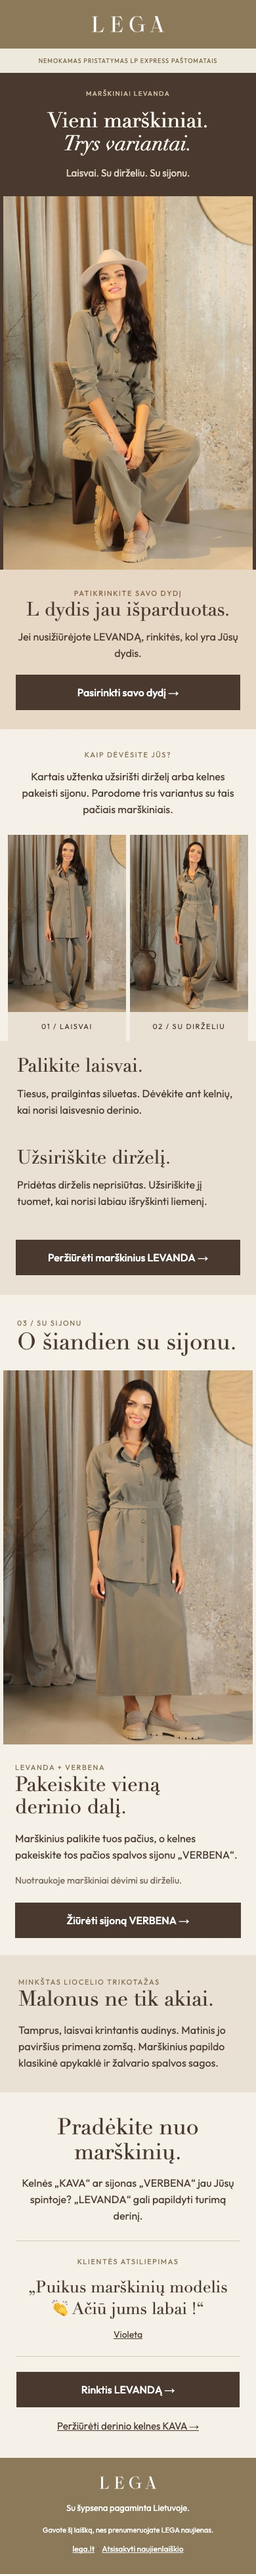
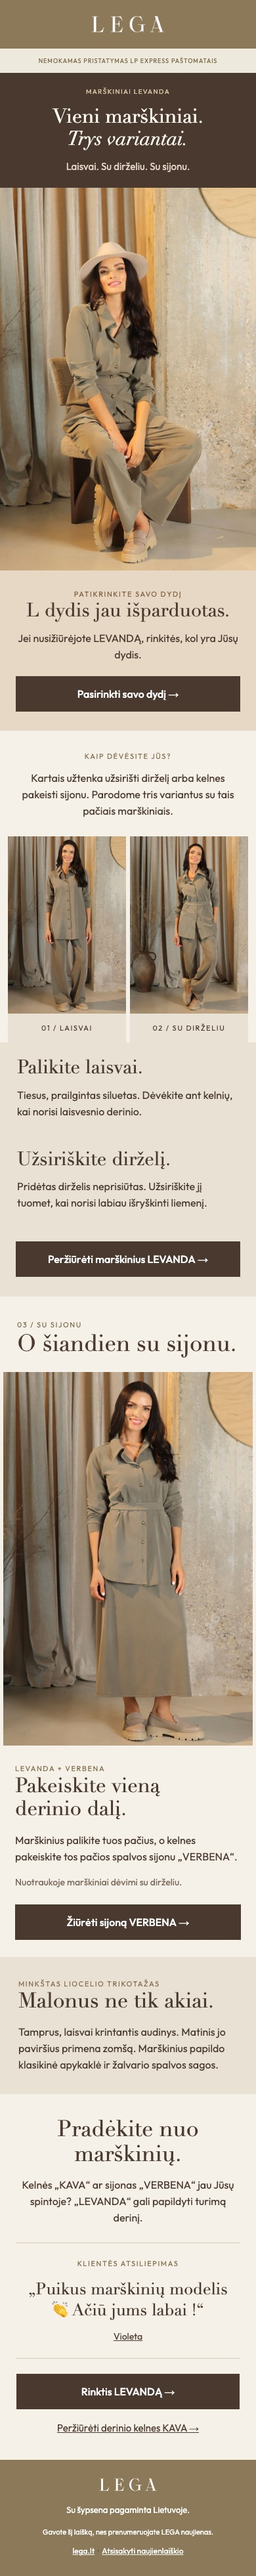
Fix c44 mobile hero fallback and refresh eleven QA previews

diff --git a/campaigns/c44-levanda-three-ways/newsletter.html b/campaigns/c44-levanda-three-ways/newsletter.html
@@ -1,1 +1,1 @@
-<!doctype html><html lang="lt"><head><meta charset="utf-8"><meta name="viewport" content="width=device-width,initial-scale=1"><meta name="x-apple-disable-message-reformatting"><title>Vieni marškiniai, keli būdai dėvėti | LEGA</title><link href="https://fonts.googleapis.com/css2?family=Outfit:wght@400;500;600&amp;display=swap" rel="stylesheet"><style>html,body{margin:0!important;padding:0!important;-webkit-text-size-adjust:100%}table,td{mso-table-lspace:0;mso-table-rspace:0}a[x-apple-data-detectors]{color:inherit!important}@media(max-width:599px){.column{max-width:100%!important}.column>a{max-width:380px;margin:0 auto}.hero-copy{max-width:100%!important;text-align:center!important}.hero-copy h1{font-size:32px!important;margin:15px 0!important}.hero-copy td{padding:23px 18px!important}.hero-photo{max-width:380px!important}}</style></head><body style="margin:0;padding:0;background:#e4ded5;-webkit-text-size-adjust:100%;"><div style="display:none;max-height:0;overflow:hidden;mso-hide:all;">L dydis jau išparduotas. Atraskite tris LEVANDOS derinius ir pasirinkite savo dydį.</div><table role="presentation" width="100%" cellspacing="0" cellpadding="0" border="0" style="width:100%;border-collapse:collapse;"><tr><td style="font-family:Outfit, 'Helvetica Neue', Arial, sans-serif;color:#49392f;"><!--[if mso]><table width="600" align="center" role="presentation"><tr><td><![endif]--><table role="presentation" width="100%" cellspacing="0" cellpadding="0" border="0" style="width:100%;border-collapse:collapse;max-width:600px;table-layout:fixed;background:#f6f1e8;margin:0 auto;"><tr><td style="font-family:Outfit, 'Helvetica Neue', Arial, sans-serif;color:#49392f;padding:24px;background:#8c7959;"><a href="https://lega.lt/"><img src="https://raw.githubusercontent.com/elaiskai/lega-email-assets/main/campaigns/c44-levanda-three-ways/assets/lega-logo-white.png" width="112" alt="LEGA" style="display:block;width:112px;height:auto;border:0;margin:0 auto;"></a></td></tr><tr><td style="font-family:Outfit, 'Helvetica Neue', Arial, sans-serif;color:#49392f;padding:11px 14px;text-align:center;background:#edeadd;"><p style="margin:0;font-family:Outfit, 'Helvetica Neue', Arial, sans-serif;font-size:16px;line-height:25px;font-size:11px;line-height:18px;letter-spacing:1.6px;text-transform:uppercase;font-size:9px;line-height:15px;letter-spacing:1px;color:#786344;">Nemokamas pristatymas LP Express paštomatais</p></td></tr><tr><td style="font-family:Outfit, 'Helvetica Neue', Arial, sans-serif;color:#49392f;font-size:0;line-height:0;text-align:center;background:#49392f;"><!--[if mso]><table role="presentation" width="600"><tr><td width="240" valign="middle"><![endif]--><div class="hero-copy" style="display:inline-block;width:100%;max-width:240px;vertical-align:middle;text-align:left;"><table role="presentation" width="100%" cellspacing="0" cellpadding="0" border="0" style="width:100%;border-collapse:collapse;"><tr><td style="font-family:Outfit, 'Helvetica Neue', Arial, sans-serif;color:#49392f;padding:32px 22px;color:#fffaf0;"><p style="margin:0;font-family:Outfit, 'Helvetica Neue', Arial, sans-serif;font-size:16px;line-height:25px;font-size:11px;line-height:18px;letter-spacing:1.6px;text-transform:uppercase;color:#d5c2a5;letter-spacing:1.4px;font-size:10px;">MARŠKINIAI LEVANDA</p><h1 style="margin:24px 0;font-family:Didot, 'Bodoni MT', Georgia, serif;font-size:37px;line-height:1.08;font-weight:400;color:#fffaf0;">Vieni marškiniai.<br><i>Trys variantai.</i></h1><p style="margin:0;font-family:Outfit, 'Helvetica Neue', Arial, sans-serif;font-size:16px;line-height:25px;color:#e2d6c6;font-size:15px;line-height:25px;">Laisvai. Su dirželiu. Su sijonu.</p></td></tr></table></div><!--[if mso]></td><td width="360" valign="middle"><![endif]--><div class="hero-photo" style="display:inline-block;width:100%;max-width:360px;vertical-align:middle;text-align:left;"><a href="https://lega.lt/products/marskiniai-levanda-alyvuogiu-chaki?utm_source=newsletter&amp;utm_medium=email&amp;utm_campaign=levanda_20261006&amp;utm_content=hero" style="display:block;"><img src="https://raw.githubusercontent.com/elaiskai/lega-email-assets/main/campaigns/c44-levanda-three-ways/assets/hero-seated.jpg" width="360" alt="LEVANDA marškiniai ir KAVA kelnės, modelis sėdi su skrybėle" style="display:block;width:100%;height:auto;border:0;"></a></div><!--[if mso]></td></tr></table><![endif]--></td></tr><tr><td style="font-family:Outfit, 'Helvetica Neue', Arial, sans-serif;color:#49392f;padding:27px 24px 29px;background:#e7d7c5;text-align:center;"><p style="margin:0;font-family:Outfit, 'Helvetica Neue', Arial, sans-serif;font-size:16px;line-height:25px;font-size:11px;line-height:18px;letter-spacing:1.6px;text-transform:uppercase;color:#866347;">PATIKRINKITE SAVO DYDĮ</p><h2 style="margin:0;font-family:Didot, 'Bodoni MT', Georgia, serif;font-size:29px;line-height:1.12;font-weight:400;">L dydis jau išparduotas.</h2><p style="margin:0;font-family:Outfit, 'Helvetica Neue', Arial, sans-serif;font-size:16px;line-height:25px;margin-top:13px;">Jei nusižiūrėjote LEVANDĄ, rinkitės, kol yra Jūsų dydis.</p><div style="padding-top:20px;"><table role="presentation" width="100%" cellspacing="0" cellpadding="0" border="0" style="width:100%;border-collapse:collapse;max-width:380px;margin:0 auto;"><tr><td style="font-family:Outfit, 'Helvetica Neue', Arial, sans-serif;color:#49392f;background:#49392f;"><a class="cta" href="https://lega.lt/products/marskiniai-levanda-alyvuogiu-chaki?utm_source=newsletter&amp;utm_medium=email&amp;utm_campaign=levanda_20261006&amp;utm_content=availability_cta" style="display:block;padding:16px 12px;color:#fff;background:#49392f;font-family:Outfit, 'Helvetica Neue', Arial, sans-serif;font-size:16px;line-height:22px;text-align:center;text-decoration:none;font-weight:500;">Pasirinkti savo dydį&nbsp;→</a></td></tr></table></div></td></tr><tr><td style="font-family:Outfit, 'Helvetica Neue', Arial, sans-serif;color:#49392f;padding:30px 28px 26px;text-align:center;"><p style="margin:0;font-family:Outfit, 'Helvetica Neue', Arial, sans-serif;font-size:16px;line-height:25px;font-size:11px;line-height:18px;letter-spacing:1.6px;text-transform:uppercase;color:#867153;">KAIP DĖVĖSITE JŪS?</p><p style="margin:0;font-family:Outfit, 'Helvetica Neue', Arial, sans-serif;font-size:16px;line-height:25px;margin-top:12px;">Kartais užtenka užsirišti dirželį arba kelnes pakeisti sijonu. Parodome tris variantus su tais pačiais marškiniais.</p></td></tr><tr><td style="font-family:Outfit, 'Helvetica Neue', Arial, sans-serif;color:#49392f;padding:0 12px;"><table role="presentation" width="100%" cellspacing="0" cellpadding="0" border="0" style="width:100%;border-collapse:collapse;table-layout:fixed;"><tr><td width="50%" valign="top" style="width:50%;padding-right:3px;"><a href="https://lega.lt/products/marskiniai-levanda-alyvuogiu-chaki?utm_source=newsletter&amp;utm_medium=email&amp;utm_campaign=levanda_20261006&amp;utm_content=hero_loose" style="display:block;text-decoration:none;"><img src="https://raw.githubusercontent.com/elaiskai/lega-email-assets/main/campaigns/c44-levanda-three-ways/assets/loose.jpg" width="300" alt="LEVANDA marškiniai dėvimi laisvai su KAVA kelnėmis" style="display:block;width:100%;height:auto;border:0;"></a><table role="presentation" width="100%" cellspacing="0" cellpadding="0" border="0" style="width:100%;border-collapse:collapse;"><tr><td style="font-family:Outfit, 'Helvetica Neue', Arial, sans-serif;color:#49392f;padding:13px 8px;background:#e9e1d4;text-align:center;"><p style="margin:0;font-family:Outfit, 'Helvetica Neue', Arial, sans-serif;font-size:16px;line-height:25px;font-size:11px;line-height:18px;letter-spacing:1.6px;text-transform:uppercase;">01 / LAISVAI</p></td></tr></table></td><td width="50%" valign="top" style="width:50%;padding-left:3px;"><a href="https://lega.lt/products/marskiniai-levanda-alyvuogiu-chaki?utm_source=newsletter&amp;utm_medium=email&amp;utm_campaign=levanda_20261006&amp;utm_content=hero_belt" style="display:block;text-decoration:none;"><img src="https://raw.githubusercontent.com/elaiskai/lega-email-assets/main/campaigns/c44-levanda-three-ways/assets/belt.jpg" width="300" alt="LEVANDA marškiniai su dirželiu ir KAVA kelnėmis" style="display:block;width:100%;height:auto;border:0;"></a><table role="presentation" width="100%" cellspacing="0" cellpadding="0" border="0" style="width:100%;border-collapse:collapse;"><tr><td style="font-family:Outfit, 'Helvetica Neue', Arial, sans-serif;color:#49392f;padding:13px 8px;background:#e9e1d4;text-align:center;"><p style="margin:0;font-family:Outfit, 'Helvetica Neue', Arial, sans-serif;font-size:16px;line-height:25px;font-size:11px;line-height:18px;letter-spacing:1.6px;text-transform:uppercase;">02 / SU DIRŽELIU</p></td></tr></table></td></tr></table></td></tr><tr><td style="font-family:Outfit, 'Helvetica Neue', Arial, sans-serif;color:#49392f;font-size:0;line-height:0;text-align:center;background:#e9e1d4;"><!--[if mso]><table role="presentation" width="600"><tr><td width="300" valign="top"><![endif]--><div class="column" style="display:inline-block;vertical-align:top;width:100%;max-width:300px;text-align:left;"><table role="presentation" width="100%" cellspacing="0" cellpadding="0" border="0" style="width:100%;border-collapse:collapse;"><tr><td style="font-family:Outfit, 'Helvetica Neue', Arial, sans-serif;color:#49392f;padding:22px 26px;"><h2 style="margin:0;font-family:Didot, 'Bodoni MT', Georgia, serif;font-size:29px;line-height:1.12;font-weight:400;">Palikite laisvai.</h2><p style="margin:0;font-family:Outfit, 'Helvetica Neue', Arial, sans-serif;font-size:16px;line-height:25px;margin-top:13px;">Tiesus, prailgintas siluetas. Dėvėkite ant kelnių, kai norisi laisvesnio derinio.</p></td></tr></table></div><!--[if mso]></td><td width="300" valign="top"><![endif]--><div class="column" style="display:inline-block;vertical-align:top;width:100%;max-width:300px;text-align:left;"><table role="presentation" width="100%" cellspacing="0" cellpadding="0" border="0" style="width:100%;border-collapse:collapse;"><tr><td style="font-family:Outfit, 'Helvetica Neue', Arial, sans-serif;color:#49392f;padding:22px 26px;"><h2 style="margin:0;font-family:Didot, 'Bodoni MT', Georgia, serif;font-size:29px;line-height:1.12;font-weight:400;">Užsiriškite dirželį.</h2><p style="margin:0;font-family:Outfit, 'Helvetica Neue', Arial, sans-serif;font-size:16px;line-height:25px;margin-top:13px;">Pridėtas dirželis neprisiūtas. Užsiriškite jį tuomet, kai norisi labiau išryškinti liemenį.</p></td></tr></table></div><!--[if mso]></td></tr></table><![endif]--></td></tr><tr><td style="font-family:Outfit, 'Helvetica Neue', Arial, sans-serif;color:#49392f;padding:24px 24px 30px;background:#e9e1d4;"><table role="presentation" width="100%" cellspacing="0" cellpadding="0" border="0" style="width:100%;border-collapse:collapse;max-width:380px;margin:0 auto;"><tr><td style="font-family:Outfit, 'Helvetica Neue', Arial, sans-serif;color:#49392f;background:#49392f;"><a class="cta" href="https://lega.lt/products/marskiniai-levanda-alyvuogiu-chaki?utm_source=newsletter&amp;utm_medium=email&amp;utm_campaign=levanda_20261006&amp;utm_content=primary_cta" style="display:block;padding:16px 12px;color:#fff;background:#49392f;font-family:Outfit, 'Helvetica Neue', Arial, sans-serif;font-size:16px;line-height:22px;text-align:center;text-decoration:none;font-weight:500;">Peržiūrėti marškinius LEVANDA&nbsp;→</a></td></tr></table></td></tr><tr><td style="font-family:Outfit, 'Helvetica Neue', Arial, sans-serif;color:#49392f;padding:34px 26px 24px;"><p style="margin:0;font-family:Outfit, 'Helvetica Neue', Arial, sans-serif;font-size:16px;line-height:25px;font-size:11px;line-height:18px;letter-spacing:1.6px;text-transform:uppercase;color:#867153;">03 / SU SIJONU</p><h2 style="margin:0;font-family:Didot, 'Bodoni MT', Georgia, serif;font-size:35px;line-height:1.12;font-weight:400;">O šiandien su sijonu.</h2></td></tr><tr><td style="font-family:Outfit, 'Helvetica Neue', Arial, sans-serif;color:#49392f;font-size:0;line-height:0;text-align:center;background:#f6f1e8;"><!--[if mso]><table role="presentation" width="600"><tr><td width="300" valign="middle"><![endif]--><div class="column" style="display:inline-block;vertical-align:middle;width:100%;max-width:300px;text-align:left;"><a href="https://lega.lt/products/sijonas-verbena-alyvuogiu-chaki?utm_source=newsletter&amp;utm_medium=email&amp;utm_campaign=levanda_20261006&amp;utm_content=skirt_look" style="display:block;text-decoration:none;"><img src="https://raw.githubusercontent.com/elaiskai/lega-email-assets/main/campaigns/c44-levanda-three-ways/assets/skirt.jpg" width="300" alt="LEVANDA marškiniai su alyvuogių chaki sijonu VERBENA" style="display:block;width:100%;height:auto;border:0;"></a></div><!--[if mso]></td><td width="300" valign="middle"><![endif]--><div class="column" style="display:inline-block;vertical-align:middle;width:100%;max-width:300px;text-align:left;"><table role="presentation" width="100%" cellspacing="0" cellpadding="0" border="0" style="width:100%;border-collapse:collapse;"><tr><td style="font-family:Outfit, 'Helvetica Neue', Arial, sans-serif;color:#49392f;padding:26px 23px;"><p style="margin:0;font-family:Outfit, 'Helvetica Neue', Arial, sans-serif;font-size:16px;line-height:25px;font-size:11px;line-height:18px;letter-spacing:1.6px;text-transform:uppercase;color:#867153;">LEVANDA + VERBENA</p><h2 style="margin:0;font-family:Didot, 'Bodoni MT', Georgia, serif;font-size:31px;line-height:1.12;font-weight:400;">Pakeiskite vieną<br>derinio dalį.</h2><p style="margin:0;font-family:Outfit, 'Helvetica Neue', Arial, sans-serif;font-size:16px;line-height:25px;margin-top:18px;">Marškinius palikite tuos pačius, o kelnes pakeiskite tos pačios spalvos sijonu „VERBENA“.</p><p style="margin:0;font-family:Outfit, 'Helvetica Neue', Arial, sans-serif;font-size:16px;line-height:25px;margin-top:15px;font-size:14px;line-height:22px;color:#796a5c;">Nuotraukoje marškiniai dėvimi su dirželiu.</p><div style="padding-top:23px;"><table role="presentation" width="100%" cellspacing="0" cellpadding="0" border="0" style="width:100%;border-collapse:collapse;max-width:380px;margin:0 auto;"><tr><td style="font-family:Outfit, 'Helvetica Neue', Arial, sans-serif;color:#49392f;background:#49392f;"><a class="cta" href="https://lega.lt/products/sijonas-verbena-alyvuogiu-chaki?utm_source=newsletter&amp;utm_medium=email&amp;utm_campaign=levanda_20261006&amp;utm_content=skirt_cta" style="display:block;padding:16px 12px;color:#fff;background:#49392f;font-family:Outfit, 'Helvetica Neue', Arial, sans-serif;font-size:16px;line-height:22px;text-align:center;text-decoration:none;font-weight:500;">Žiūrėti sijoną VERBENA&nbsp;→</a></td></tr></table></div></td></tr></table></div><!--[if mso]></td></tr></table><![endif]--></td></tr><tr><td style="font-family:Outfit, 'Helvetica Neue', Arial, sans-serif;color:#49392f;padding:32px 28px;background:#e9e1d4;"><p style="margin:0;font-family:Outfit, 'Helvetica Neue', Arial, sans-serif;font-size:16px;line-height:25px;font-size:11px;line-height:18px;letter-spacing:1.6px;text-transform:uppercase;color:#867153;">MINKŠTAS LIOCELIO TRIKOTAŽAS</p><h2 style="margin:0;font-family:Didot, 'Bodoni MT', Georgia, serif;font-size:32px;line-height:1.12;font-weight:400;">Malonus ne tik akiai.</h2><p style="margin:0;font-family:Outfit, 'Helvetica Neue', Arial, sans-serif;font-size:16px;line-height:25px;margin-top:16px;">Tamprus, laisvai krintantis audinys. Matinis jo paviršius primena zomšą. Marškinius papildo klasikinė apykaklė ir žalvario spalvos sagos.</p></td></tr><tr><td style="font-family:Outfit, 'Helvetica Neue', Arial, sans-serif;color:#49392f;padding:34px 25px 32px;text-align:center;"><h2 style="margin:0;font-family:Didot, 'Bodoni MT', Georgia, serif;font-size:34px;line-height:1.12;font-weight:400;">Pradėkite nuo marškinių.</h2><p style="margin:0;font-family:Outfit, 'Helvetica Neue', Arial, sans-serif;font-size:16px;line-height:25px;margin-top:16px;">Kelnės „KAVA“ ar sijonas „VERBENA“ jau Jūsų spintoje? „LEVANDA“ gali papildyti turimą derinį.</p><div style="margin-top:25px;padding:22px 10px;border-top:1px solid #d7c9b8;border-bottom:1px solid #d7c9b8;"><p style="margin:0;font-family:Outfit, 'Helvetica Neue', Arial, sans-serif;font-size:16px;line-height:25px;font-size:11px;line-height:18px;letter-spacing:1.6px;text-transform:uppercase;color:#867153;">KLIENTĖS ATSILIEPIMAS</p><blockquote style="margin:14px 0 12px;font-family:Didot, 'Bodoni MT', Georgia, serif;font-size:25px;line-height:1.3;font-weight:400;color:#49392f;">„Puikus marškinių modelis 👏 Ačiū jums labai&nbsp;!“</blockquote><a href="https://lega.lt/products/marskiniai-levanda-alyvuogiu-chaki?utm_source=newsletter&amp;utm_medium=email&amp;utm_campaign=levanda_20261006&amp;utm_content=review" style="color:#49392f;font-family:Outfit, 'Helvetica Neue', Arial, sans-serif;font-size:14px;line-height:22px;text-decoration:underline;">Violeta</a></div><div style="padding-top:23px;"><table role="presentation" width="100%" cellspacing="0" cellpadding="0" border="0" style="width:100%;border-collapse:collapse;max-width:380px;margin:0 auto;"><tr><td style="font-family:Outfit, 'Helvetica Neue', Arial, sans-serif;color:#49392f;background:#49392f;"><a class="cta" href="https://lega.lt/products/marskiniai-levanda-alyvuogiu-chaki?utm_source=newsletter&amp;utm_medium=email&amp;utm_campaign=levanda_20261006&amp;utm_content=closing_cta" style="display:block;padding:16px 12px;color:#fff;background:#49392f;font-family:Outfit, 'Helvetica Neue', Arial, sans-serif;font-size:16px;line-height:22px;text-align:center;text-decoration:none;font-weight:500;">Rinktis LEVANDĄ&nbsp;→</a></td></tr></table></div><a class="text-cta" href="https://lega.lt/products/placios-kelnes-kava-alyvuogiu-chaki?utm_source=newsletter&amp;utm_medium=email&amp;utm_campaign=levanda_20261006&amp;utm_content=kava_cta" style="display:block;padding:16px 0 4px;color:#49392f;font-family:Outfit, 'Helvetica Neue', Arial, sans-serif;font-size:15px;line-height:25px;text-align:center;text-decoration:underline;">Peržiūrėti derinio kelnes KAVA →</a></td></tr><tr><td style="font-family:Outfit, 'Helvetica Neue', Arial, sans-serif;color:#49392f;padding:28px 20px;background:#8c7959;text-align:center;"><a href="https://lega.lt/"><img src="https://raw.githubusercontent.com/elaiskai/lega-email-assets/main/campaigns/c44-levanda-three-ways/assets/lega-logo-white.png" width="88" alt="LEGA" style="display:block;width:88px;height:auto;border:0;margin:0 auto;"></a><p style="margin:0;font-family:Outfit, 'Helvetica Neue', Arial, sans-serif;font-size:16px;line-height:25px;margin-top:18px;font-size:13px;line-height:21px;color:#fff;">Su šypsena pagaminta Lietuvoje.</p><p style="margin:0;font-family:Outfit, 'Helvetica Neue', Arial, sans-serif;font-size:16px;line-height:25px;margin-top:14px;font-size:11px;line-height:18px;color:#fff;">Gavote šį laišką, nes prenumeruojate LEGA naujienas.</p><p style="margin:10px 0 0;font-size:12px;line-height:20px;"><a href="https://lega.lt/" style="color:#fff;">lega.lt</a> &nbsp;·&nbsp; <a href="[[unsubscribe]]" style="color:#fff;">Atsisakyti naujienlaiškio</a></p></td></tr></table><!--[if mso]></td></tr></table><![endif]--></td></tr></table></body></html>
+<!doctype html><html lang="lt"><head><meta charset="utf-8"><meta name="viewport" content="width=device-width,initial-scale=1"><meta name="x-apple-disable-message-reformatting"><title>Vieni marškiniai, keli būdai dėvėti | LEGA</title><link href="https://fonts.googleapis.com/css2?family=Outfit:wght@400;500;600&amp;display=swap" rel="stylesheet"><style>html,body{margin:0!important;padding:0!important;-webkit-text-size-adjust:100%}table,td{mso-table-lspace:0;mso-table-rspace:0}a[x-apple-data-detectors]{color:inherit!important}@media(min-width:600px){.hero-copy{max-width:240px!important;text-align:left!important}.hero-copy h1{font-size:37px!important;line-height:1.08!important;margin:24px 0!important}.hero-copy td{padding:32px 22px!important}.hero-photo{max-width:360px!important}}@media(max-width:599px){.column{max-width:100%!important}.column>a{max-width:380px;margin:0 auto}.hero-copy{max-width:100%!important;text-align:center!important}.hero-copy h1{font-size:30px!important;line-height:34px!important;margin:12px 0!important}.hero-copy td{padding:20px 18px!important}.hero-photo{max-width:420px!important}}</style></head><body style="margin:0;padding:0;background:#e4ded5;-webkit-text-size-adjust:100%;"><div style="display:none;max-height:0;overflow:hidden;mso-hide:all;">L dydis jau išparduotas. Atraskite tris LEVANDOS derinius ir pasirinkite savo dydį.</div><table role="presentation" width="100%" cellspacing="0" cellpadding="0" border="0" style="width:100%;border-collapse:collapse;"><tr><td style="font-family:Outfit, 'Helvetica Neue', Arial, sans-serif;color:#49392f;"><!--[if mso]><table width="600" align="center" role="presentation"><tr><td><![endif]--><table role="presentation" width="100%" cellspacing="0" cellpadding="0" border="0" style="width:100%;border-collapse:collapse;max-width:600px;table-layout:fixed;background:#f6f1e8;margin:0 auto;"><tr><td style="font-family:Outfit, 'Helvetica Neue', Arial, sans-serif;color:#49392f;padding:24px;background:#8c7959;"><a href="https://lega.lt/"><img src="https://raw.githubusercontent.com/elaiskai/lega-email-assets/main/campaigns/c44-levanda-three-ways/assets/lega-logo-white.png" width="112" alt="LEGA" style="display:block;width:112px;height:auto;border:0;margin:0 auto;"></a></td></tr><tr><td style="font-family:Outfit, 'Helvetica Neue', Arial, sans-serif;color:#49392f;padding:11px 14px;text-align:center;background:#edeadd;"><p style="margin:0;font-family:Outfit, 'Helvetica Neue', Arial, sans-serif;font-size:16px;line-height:25px;font-size:11px;line-height:18px;letter-spacing:1.6px;text-transform:uppercase;font-size:9px;line-height:15px;letter-spacing:1px;color:#786344;">Nemokamas pristatymas LP Express paštomatais</p></td></tr><tr><td style="font-family:Outfit, 'Helvetica Neue', Arial, sans-serif;color:#49392f;font-size:0;line-height:0;text-align:center;background:#49392f;"><!--[if mso]><table role="presentation" width="600"><tr><td width="240" valign="middle"><![endif]--><div class="hero-copy" style="display:inline-block;width:100%;max-width:100%;vertical-align:middle;text-align:center;"><table role="presentation" width="100%" cellspacing="0" cellpadding="0" border="0" style="width:100%;border-collapse:collapse;"><tr><td style="font-family:Outfit, 'Helvetica Neue', Arial, sans-serif;color:#49392f;padding:20px 18px;color:#fffaf0;"><p style="margin:0;font-family:Outfit, 'Helvetica Neue', Arial, sans-serif;font-size:16px;line-height:25px;font-size:11px;line-height:18px;letter-spacing:1.6px;text-transform:uppercase;color:#d5c2a5;letter-spacing:1.4px;font-size:10px;">MARŠKINIAI LEVANDA</p><h1 style="margin:12px 0;font-family:Didot, 'Bodoni MT', Georgia, serif;font-size:30px;line-height:34px;font-weight:400;color:#fffaf0;">Vieni marškiniai.<br><i>Trys variantai.</i></h1><p style="margin:0;font-family:Outfit, 'Helvetica Neue', Arial, sans-serif;font-size:16px;line-height:25px;color:#e2d6c6;font-size:15px;line-height:25px;">Laisvai. Su dirželiu. Su sijonu.</p></td></tr></table></div><!--[if mso]></td><td width="360" valign="middle"><![endif]--><div class="hero-photo" style="display:inline-block;width:100%;max-width:420px;vertical-align:middle;text-align:left;"><a href="https://lega.lt/products/marskiniai-levanda-alyvuogiu-chaki?utm_source=newsletter&amp;utm_medium=email&amp;utm_campaign=levanda_20261006&amp;utm_content=hero" style="display:block;"><img src="https://raw.githubusercontent.com/elaiskai/lega-email-assets/main/campaigns/c44-levanda-three-ways/assets/hero-seated.jpg" width="360" alt="LEVANDA marškiniai ir KAVA kelnės, modelis sėdi su skrybėle" style="display:block;width:100%;height:auto;border:0;"></a></div><!--[if mso]></td></tr></table><![endif]--></td></tr><tr><td style="font-family:Outfit, 'Helvetica Neue', Arial, sans-serif;color:#49392f;padding:27px 24px 29px;background:#e7d7c5;text-align:center;"><p style="margin:0;font-family:Outfit, 'Helvetica Neue', Arial, sans-serif;font-size:16px;line-height:25px;font-size:11px;line-height:18px;letter-spacing:1.6px;text-transform:uppercase;color:#866347;">PATIKRINKITE SAVO DYDĮ</p><h2 style="margin:0;font-family:Didot, 'Bodoni MT', Georgia, serif;font-size:29px;line-height:1.12;font-weight:400;">L dydis jau išparduotas.</h2><p style="margin:0;font-family:Outfit, 'Helvetica Neue', Arial, sans-serif;font-size:16px;line-height:25px;margin-top:13px;">Jei nusižiūrėjote LEVANDĄ, rinkitės, kol yra Jūsų dydis.</p><div style="padding-top:20px;"><table role="presentation" width="100%" cellspacing="0" cellpadding="0" border="0" style="width:100%;border-collapse:collapse;max-width:380px;margin:0 auto;"><tr><td style="font-family:Outfit, 'Helvetica Neue', Arial, sans-serif;color:#49392f;background:#49392f;"><a class="cta" href="https://lega.lt/products/marskiniai-levanda-alyvuogiu-chaki?utm_source=newsletter&amp;utm_medium=email&amp;utm_campaign=levanda_20261006&amp;utm_content=availability_cta" style="display:block;padding:16px 12px;color:#fff;background:#49392f;font-family:Outfit, 'Helvetica Neue', Arial, sans-serif;font-size:16px;line-height:22px;text-align:center;text-decoration:none;font-weight:500;">Pasirinkti savo dydį&nbsp;→</a></td></tr></table></div></td></tr><tr><td style="font-family:Outfit, 'Helvetica Neue', Arial, sans-serif;color:#49392f;padding:30px 28px 26px;text-align:center;"><p style="margin:0;font-family:Outfit, 'Helvetica Neue', Arial, sans-serif;font-size:16px;line-height:25px;font-size:11px;line-height:18px;letter-spacing:1.6px;text-transform:uppercase;color:#867153;">KAIP DĖVĖSITE JŪS?</p><p style="margin:0;font-family:Outfit, 'Helvetica Neue', Arial, sans-serif;font-size:16px;line-height:25px;margin-top:12px;">Kartais užtenka užsirišti dirželį arba kelnes pakeisti sijonu. Parodome tris variantus su tais pačiais marškiniais.</p></td></tr><tr><td style="font-family:Outfit, 'Helvetica Neue', Arial, sans-serif;color:#49392f;padding:0 12px;"><table role="presentation" width="100%" cellspacing="0" cellpadding="0" border="0" style="width:100%;border-collapse:collapse;table-layout:fixed;"><tr><td width="50%" valign="top" style="width:50%;padding-right:3px;"><a href="https://lega.lt/products/marskiniai-levanda-alyvuogiu-chaki?utm_source=newsletter&amp;utm_medium=email&amp;utm_campaign=levanda_20261006&amp;utm_content=hero_loose" style="display:block;text-decoration:none;"><img src="https://raw.githubusercontent.com/elaiskai/lega-email-assets/main/campaigns/c44-levanda-three-ways/assets/loose.jpg" width="300" alt="LEVANDA marškiniai dėvimi laisvai su KAVA kelnėmis" style="display:block;width:100%;height:auto;border:0;"></a><table role="presentation" width="100%" cellspacing="0" cellpadding="0" border="0" style="width:100%;border-collapse:collapse;"><tr><td style="font-family:Outfit, 'Helvetica Neue', Arial, sans-serif;color:#49392f;padding:13px 8px;background:#e9e1d4;text-align:center;"><p style="margin:0;font-family:Outfit, 'Helvetica Neue', Arial, sans-serif;font-size:16px;line-height:25px;font-size:11px;line-height:18px;letter-spacing:1.6px;text-transform:uppercase;">01 / LAISVAI</p></td></tr></table></td><td width="50%" valign="top" style="width:50%;padding-left:3px;"><a href="https://lega.lt/products/marskiniai-levanda-alyvuogiu-chaki?utm_source=newsletter&amp;utm_medium=email&amp;utm_campaign=levanda_20261006&amp;utm_content=hero_belt" style="display:block;text-decoration:none;"><img src="https://raw.githubusercontent.com/elaiskai/lega-email-assets/main/campaigns/c44-levanda-three-ways/assets/belt.jpg" width="300" alt="LEVANDA marškiniai su dirželiu ir KAVA kelnėmis" style="display:block;width:100%;height:auto;border:0;"></a><table role="presentation" width="100%" cellspacing="0" cellpadding="0" border="0" style="width:100%;border-collapse:collapse;"><tr><td style="font-family:Outfit, 'Helvetica Neue', Arial, sans-serif;color:#49392f;padding:13px 8px;background:#e9e1d4;text-align:center;"><p style="margin:0;font-family:Outfit, 'Helvetica Neue', Arial, sans-serif;font-size:16px;line-height:25px;font-size:11px;line-height:18px;letter-spacing:1.6px;text-transform:uppercase;">02 / SU DIRŽELIU</p></td></tr></table></td></tr></table></td></tr><tr><td style="font-family:Outfit, 'Helvetica Neue', Arial, sans-serif;color:#49392f;font-size:0;line-height:0;text-align:center;background:#e9e1d4;"><!--[if mso]><table role="presentation" width="600"><tr><td width="300" valign="top"><![endif]--><div class="column" style="display:inline-block;vertical-align:top;width:100%;max-width:300px;text-align:left;"><table role="presentation" width="100%" cellspacing="0" cellpadding="0" border="0" style="width:100%;border-collapse:collapse;"><tr><td style="font-family:Outfit, 'Helvetica Neue', Arial, sans-serif;color:#49392f;padding:22px 26px;"><h2 style="margin:0;font-family:Didot, 'Bodoni MT', Georgia, serif;font-size:29px;line-height:1.12;font-weight:400;">Palikite laisvai.</h2><p style="margin:0;font-family:Outfit, 'Helvetica Neue', Arial, sans-serif;font-size:16px;line-height:25px;margin-top:13px;">Tiesus, prailgintas siluetas. Dėvėkite ant kelnių, kai norisi laisvesnio derinio.</p></td></tr></table></div><!--[if mso]></td><td width="300" valign="top"><![endif]--><div class="column" style="display:inline-block;vertical-align:top;width:100%;max-width:300px;text-align:left;"><table role="presentation" width="100%" cellspacing="0" cellpadding="0" border="0" style="width:100%;border-collapse:collapse;"><tr><td style="font-family:Outfit, 'Helvetica Neue', Arial, sans-serif;color:#49392f;padding:22px 26px;"><h2 style="margin:0;font-family:Didot, 'Bodoni MT', Georgia, serif;font-size:29px;line-height:1.12;font-weight:400;">Užsiriškite dirželį.</h2><p style="margin:0;font-family:Outfit, 'Helvetica Neue', Arial, sans-serif;font-size:16px;line-height:25px;margin-top:13px;">Pridėtas dirželis neprisiūtas. Užsiriškite jį tuomet, kai norisi labiau išryškinti liemenį.</p></td></tr></table></div><!--[if mso]></td></tr></table><![endif]--></td></tr><tr><td style="font-family:Outfit, 'Helvetica Neue', Arial, sans-serif;color:#49392f;padding:24px 24px 30px;background:#e9e1d4;"><table role="presentation" width="100%" cellspacing="0" cellpadding="0" border="0" style="width:100%;border-collapse:collapse;max-width:380px;margin:0 auto;"><tr><td style="font-family:Outfit, 'Helvetica Neue', Arial, sans-serif;color:#49392f;background:#49392f;"><a class="cta" href="https://lega.lt/products/marskiniai-levanda-alyvuogiu-chaki?utm_source=newsletter&amp;utm_medium=email&amp;utm_campaign=levanda_20261006&amp;utm_content=primary_cta" style="display:block;padding:16px 12px;color:#fff;background:#49392f;font-family:Outfit, 'Helvetica Neue', Arial, sans-serif;font-size:16px;line-height:22px;text-align:center;text-decoration:none;font-weight:500;">Peržiūrėti marškinius LEVANDA&nbsp;→</a></td></tr></table></td></tr><tr><td style="font-family:Outfit, 'Helvetica Neue', Arial, sans-serif;color:#49392f;padding:34px 26px 24px;"><p style="margin:0;font-family:Outfit, 'Helvetica Neue', Arial, sans-serif;font-size:16px;line-height:25px;font-size:11px;line-height:18px;letter-spacing:1.6px;text-transform:uppercase;color:#867153;">03 / SU SIJONU</p><h2 style="margin:0;font-family:Didot, 'Bodoni MT', Georgia, serif;font-size:35px;line-height:1.12;font-weight:400;">O šiandien su sijonu.</h2></td></tr><tr><td style="font-family:Outfit, 'Helvetica Neue', Arial, sans-serif;color:#49392f;font-size:0;line-height:0;text-align:center;background:#f6f1e8;"><!--[if mso]><table role="presentation" width="600"><tr><td width="300" valign="middle"><![endif]--><div class="column" style="display:inline-block;vertical-align:middle;width:100%;max-width:300px;text-align:left;"><a href="https://lega.lt/products/sijonas-verbena-alyvuogiu-chaki?utm_source=newsletter&amp;utm_medium=email&amp;utm_campaign=levanda_20261006&amp;utm_content=skirt_look" style="display:block;text-decoration:none;"><img src="https://raw.githubusercontent.com/elaiskai/lega-email-assets/main/campaigns/c44-levanda-three-ways/assets/skirt.jpg" width="300" alt="LEVANDA marškiniai su alyvuogių chaki sijonu VERBENA" style="display:block;width:100%;height:auto;border:0;"></a></div><!--[if mso]></td><td width="300" valign="middle"><![endif]--><div class="column" style="display:inline-block;vertical-align:middle;width:100%;max-width:300px;text-align:left;"><table role="presentation" width="100%" cellspacing="0" cellpadding="0" border="0" style="width:100%;border-collapse:collapse;"><tr><td style="font-family:Outfit, 'Helvetica Neue', Arial, sans-serif;color:#49392f;padding:26px 23px;"><p style="margin:0;font-family:Outfit, 'Helvetica Neue', Arial, sans-serif;font-size:16px;line-height:25px;font-size:11px;line-height:18px;letter-spacing:1.6px;text-transform:uppercase;color:#867153;">LEVANDA + VERBENA</p><h2 style="margin:0;font-family:Didot, 'Bodoni MT', Georgia, serif;font-size:31px;line-height:1.12;font-weight:400;">Pakeiskite vieną<br>derinio dalį.</h2><p style="margin:0;font-family:Outfit, 'Helvetica Neue', Arial, sans-serif;font-size:16px;line-height:25px;margin-top:18px;">Marškinius palikite tuos pačius, o kelnes pakeiskite tos pačios spalvos sijonu „VERBENA“.</p><p style="margin:0;font-family:Outfit, 'Helvetica Neue', Arial, sans-serif;font-size:16px;line-height:25px;margin-top:15px;font-size:14px;line-height:22px;color:#796a5c;">Nuotraukoje marškiniai dėvimi su dirželiu.</p><div style="padding-top:23px;"><table role="presentation" width="100%" cellspacing="0" cellpadding="0" border="0" style="width:100%;border-collapse:collapse;max-width:380px;margin:0 auto;"><tr><td style="font-family:Outfit, 'Helvetica Neue', Arial, sans-serif;color:#49392f;background:#49392f;"><a class="cta" href="https://lega.lt/products/sijonas-verbena-alyvuogiu-chaki?utm_source=newsletter&amp;utm_medium=email&amp;utm_campaign=levanda_20261006&amp;utm_content=skirt_cta" style="display:block;padding:16px 12px;color:#fff;background:#49392f;font-family:Outfit, 'Helvetica Neue', Arial, sans-serif;font-size:16px;line-height:22px;text-align:center;text-decoration:none;font-weight:500;">Žiūrėti sijoną VERBENA&nbsp;→</a></td></tr></table></div></td></tr></table></div><!--[if mso]></td></tr></table><![endif]--></td></tr><tr><td style="font-family:Outfit, 'Helvetica Neue', Arial, sans-serif;color:#49392f;padding:32px 28px;background:#e9e1d4;"><p style="margin:0;font-family:Outfit, 'Helvetica Neue', Arial, sans-serif;font-size:16px;line-height:25px;font-size:11px;line-height:18px;letter-spacing:1.6px;text-transform:uppercase;color:#867153;">MINKŠTAS LIOCELIO TRIKOTAŽAS</p><h2 style="margin:0;font-family:Didot, 'Bodoni MT', Georgia, serif;font-size:32px;line-height:1.12;font-weight:400;">Malonus ne tik akiai.</h2><p style="margin:0;font-family:Outfit, 'Helvetica Neue', Arial, sans-serif;font-size:16px;line-height:25px;margin-top:16px;">Tamprus, laisvai krintantis audinys. Matinis jo paviršius primena zomšą. Marškinius papildo klasikinė apykaklė ir žalvario spalvos sagos.</p></td></tr><tr><td style="font-family:Outfit, 'Helvetica Neue', Arial, sans-serif;color:#49392f;padding:34px 25px 32px;text-align:center;"><h2 style="margin:0;font-family:Didot, 'Bodoni MT', Georgia, serif;font-size:34px;line-height:1.12;font-weight:400;">Pradėkite nuo marškinių.</h2><p style="margin:0;font-family:Outfit, 'Helvetica Neue', Arial, sans-serif;font-size:16px;line-height:25px;margin-top:16px;">Kelnės „KAVA“ ar sijonas „VERBENA“ jau Jūsų spintoje? „LEVANDA“ gali papildyti turimą derinį.</p><div style="margin-top:25px;padding:22px 10px;border-top:1px solid #d7c9b8;border-bottom:1px solid #d7c9b8;"><p style="margin:0;font-family:Outfit, 'Helvetica Neue', Arial, sans-serif;font-size:16px;line-height:25px;font-size:11px;line-height:18px;letter-spacing:1.6px;text-transform:uppercase;color:#867153;">KLIENTĖS ATSILIEPIMAS</p><blockquote style="margin:14px 0 12px;font-family:Didot, 'Bodoni MT', Georgia, serif;font-size:25px;line-height:1.3;font-weight:400;color:#49392f;">„Puikus marškinių modelis 👏 Ačiū jums labai&nbsp;!“</blockquote><a href="https://lega.lt/products/marskiniai-levanda-alyvuogiu-chaki?utm_source=newsletter&amp;utm_medium=email&amp;utm_campaign=levanda_20261006&amp;utm_content=review" style="color:#49392f;font-family:Outfit, 'Helvetica Neue', Arial, sans-serif;font-size:14px;line-height:22px;text-decoration:underline;">Violeta</a></div><div style="padding-top:23px;"><table role="presentation" width="100%" cellspacing="0" cellpadding="0" border="0" style="width:100%;border-collapse:collapse;max-width:380px;margin:0 auto;"><tr><td style="font-family:Outfit, 'Helvetica Neue', Arial, sans-serif;color:#49392f;background:#49392f;"><a class="cta" href="https://lega.lt/products/marskiniai-levanda-alyvuogiu-chaki?utm_source=newsletter&amp;utm_medium=email&amp;utm_campaign=levanda_20261006&amp;utm_content=closing_cta" style="display:block;padding:16px 12px;color:#fff;background:#49392f;font-family:Outfit, 'Helvetica Neue', Arial, sans-serif;font-size:16px;line-height:22px;text-align:center;text-decoration:none;font-weight:500;">Rinktis LEVANDĄ&nbsp;→</a></td></tr></table></div><a class="text-cta" href="https://lega.lt/products/placios-kelnes-kava-alyvuogiu-chaki?utm_source=newsletter&amp;utm_medium=email&amp;utm_campaign=levanda_20261006&amp;utm_content=kava_cta" style="display:block;padding:16px 0 4px;color:#49392f;font-family:Outfit, 'Helvetica Neue', Arial, sans-serif;font-size:15px;line-height:25px;text-align:center;text-decoration:underline;">Peržiūrėti derinio kelnes KAVA →</a></td></tr><tr><td style="font-family:Outfit, 'Helvetica Neue', Arial, sans-serif;color:#49392f;padding:28px 20px;background:#8c7959;text-align:center;"><a href="https://lega.lt/"><img src="https://raw.githubusercontent.com/elaiskai/lega-email-assets/main/campaigns/c44-levanda-three-ways/assets/lega-logo-white.png" width="88" alt="LEGA" style="display:block;width:88px;height:auto;border:0;margin:0 auto;"></a><p style="margin:0;font-family:Outfit, 'Helvetica Neue', Arial, sans-serif;font-size:16px;line-height:25px;margin-top:18px;font-size:13px;line-height:21px;color:#fff;">Su šypsena pagaminta Lietuvoje.</p><p style="margin:0;font-family:Outfit, 'Helvetica Neue', Arial, sans-serif;font-size:16px;line-height:25px;margin-top:14px;font-size:11px;line-height:18px;color:#fff;">Gavote šį laišką, nes prenumeruojate LEGA naujienas.</p><p style="margin:10px 0 0;font-size:12px;line-height:20px;"><a href="https://lega.lt/" style="color:#fff;">lega.lt</a> &nbsp;·&nbsp; <a href="[[unsubscribe]]" style="color:#fff;">Atsisakyti naujienlaiškio</a></p></td></tr></table><!--[if mso]></td></tr></table><![endif]--></td></tr></table></body></html>

diff --git a/campaigns/c44-levanda-three-ways/README.md b/campaigns/c44-levanda-three-ways/README.md
@@ -8,6 +8,10 @@ Importuoti `newsletter.html`. Nuotraukų adresai absoliutūs ir veda į šio apl
 
 Tema: Vieni marškiniai, keli būdai dėvėti
 
+## Telefono pataisymas, 2026 m. spalio 5 d.
+
+Pagal pateiktą Gmail testo ekrano kopiją pataisytas per siauras hero tekstas. Kompaktiškas pilno pločio tekstas dabar yra bazinis inline variantas, todėl jam nereikia media taisyklių. Desktop dviejų stulpelių hero taikomas tik per desktop stilius. Patikrinta 11 šviežių variantų, įskaitant pašalintus head stilius ir papildomas 16 px paraštes telefone. Nuotraukos patikrintos naudojant gyvus GitHub adresus. Ankstesnis Omnisend importas automatiškai neatsinaujina: reikia iš naujo importuoti newsletter.html ir atsiųsti naują tikro telefono testo ekrano kopiją. Gmail rezultatas dar nepatvirtintas.
+
 Trys realiais originaliais kadrais pagrįsti variantai: laisvai su KAVA, su dirželiu ir KAVA, su dirželiu ir VERBENA. Atsegtų marškinių kadro produkto galerijoje nėra, todėl šios anksčiau pasiūlytos idėjos atsisakyta. Modeliai ir apranga negeneruoti, nuotraukos tik sumažintos išlaikant originalų santykį.
 
 ## Šaltiniai ir patikra
